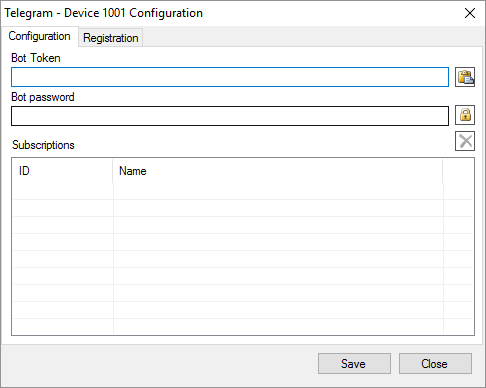
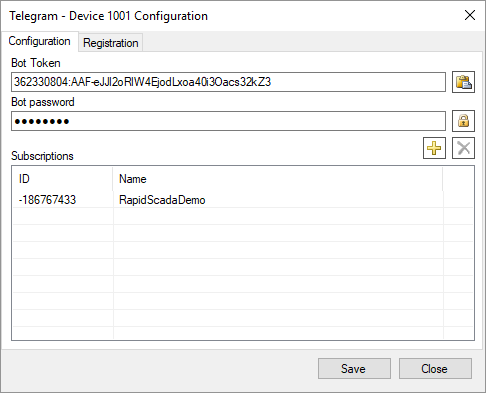
ScadaDoc: update telegram article

diff --git a/ScadaDoc/ScadaDoc/content/latest/ru/modules/kp-telegram.html b/ScadaDoc/ScadaDoc/content/latest/ru/modules/kp-telegram.html
@@ -23,7 +23,7 @@
         <li>Установите приложение и зарегистрируйтесь в <a href="https://telegram.org/" target="_blank">Telegram</a>.</li>
         <li>Добавьте в список контактов бота <a href="https://telegram.me/botfather" target="_blank">BotFather</a>.<br />
             <img src="kp-telegram-files/bot_father.png" alt="Telegram BotFather" class="sd-article-image border" /></li>
-        <li>В режиме диалога с BotFather выполните команду /newbot и следуйте инструкциям от BotFather.</li>
+        <li>В режиме диалога с BotFather выполните команду <em>/newbot</em> и следуйте инструкциям от BotFather.</li>
         <li>Щёлкните по значку меню и создайте новую группу для получения рассылки.<br />
             <img src="kp-telegram-files/new_group.png" alt="Новая группа Telegram" class="sd-article-image border" /></li>
         <li>Добавьте созданного Вами бота в новую группу.</li>
@@ -45,14 +45,15 @@
     </ol>
 
     <h3>Управление подписками</h3>
-    <p>Если настройка выполнена правильно, то Ваш бот будет отвечать на команды, отправленные из мессенджера, например, команду /help</p>
+    <p>Если настройка выполнена правильно, то Ваш бот будет отвечать на команды, отправленные из мессенджера, например, команду <em>/help</em>. Необходимо в настройках драйвера указать подписки (чаты), с которыми взаимодействует Коммуникатор.</p>
     <p class="sd-article-image border">
-        <img src="kp-telegram-files/test_group_ru.png" alt="Группа уведомлений Telegram" /><br />
+        <img src="kp-telegram-files/group_chat_ru.png" alt="Группа уведомлений Telegram" /><br />
     </p>
-    <p>Чтобы добавить или удалить подписку данной группы, используйте команды /start и /stop с указанием ранее сгенерированного пароля. Однако, по умолчанию изменение подписки заблокировано. Чтобы его разблокировать, в Коммуникаторе отправьте для КП стандартную команду номер 2 со значением 1. Теперь можно добавлять или удалять подписки.</p>
+    <p>Чтобы получить идентификатор и наименование подписки, следует отправить команду <em>/info</em> с помощью мессенджера. Затем добавить полученные данные на форме конфигурации КП.</p>
+    <p>Устаревший способ: добавление или удаление подписки выполняется с помощью команд <em>/start</em> и <em>/stop</em> с указанием ранее сгенерированного пароля. Однако, по умолчанию изменение подписки заблокировано. Чтобы его разблокировать, в Коммуникаторе нужно отправить для КП стандартную команду номер 2 со значением 1. После этого можно добавлять или удалять подписки.</p>
 
     <h2>Отправка сообщений</h2>
-    <p>Чтобы из Rapid SCADA отправить сообщение в группу Telegram, необходимо отправить бинарную команду номер 1, содержащую имя (или идентификатор) группы и текст сообщения. Например: RapidScadaBotTestGroup; Тестовое сообщение.</p>
+    <p>Чтобы из Rapid SCADA отправить сообщение в группу Telegram, необходимо отправить бинарную команду номер 1, содержащую имя (или идентификатор) группы и текст сообщения. Например:<br />RapidScadaDemo; Тестовое сообщение.</p>
     <p class="sd-article-image">
         <img src="kp-telegram-files/send_cmd_ru.png" alt="Отправка сообщения Telegram" /><br />
     </p>

diff --git a/ScadaDoc/ScadaDoc/content/latest/en/modules/kp-telegram.html b/ScadaDoc/ScadaDoc/content/latest/en/modules/kp-telegram.html
@@ -23,7 +23,7 @@
         <li>Install the application and register <a href="https://telegram.org/" target="_blank">Telegram</a>.</li>
         <li>Add the bot named <a href="https://telegram.me/botfather" target="_blank">BotFather</a> to the contact list.<br />
             <img src="kp-telegram-files/bot_father.png" alt="Telegram BotFather" class="sd-article-image border" /></li>
-        <li>In the dialog with BotFather, run the command /newbot and follow the instructions from BotFather.</li>
+        <li>In the dialog with BotFather, run the command <em>/newbot</em> and follow the instructions from BotFather.</li>
         <li>Click the menu icon and create a new group to receive notifications.<br />
             <img src="kp-telegram-files/new_group.png" alt="Новая группа Telegram" class="sd-article-image border" /></li>
         <li>Add the bot you created to the new group.</li>
@@ -45,14 +45,15 @@
     </ol>
 
     <h3>Manage Subscriptions</h3>
-    <p>If the settings are correct, your bot will respond to messenger commands, for example, the /help command.</p>
+    <p>If the settings are correct, your bot will respond to messenger commands, for example, the <em>/help</em> command. It is necessary to specify the subscriptions (chats) in the driver settings.</p>
     <p class="sd-article-image.border">
-        <img src="kp-telegram-files/test_group_en.png" alt="Telegram notification group" /><br />
+        <img src="kp-telegram-files/group_chat_en.png" alt="Telegram notification group" /><br />
     </p>
-    <p>To add or remove subscriptions to the group, use the /start and /stop commands with the previously generated password. However, by default, subscription changes are blocked. To unlock it, send a standard command number 2 with a value of 1 by Communicator. Then you can add or remove subscriptions.</p>
+    <p>To get the ID and the name of the subscription, send the <em>/info</em> command using the messenger. Then add the received values using the device configuration form.</p>
+    <p>Obsolete method: to add or remove subscriptions, use the <em>/start</em> and <em>/stop</em> commands with the previously generated password. However, by default, subscription changes are blocked. To unlock it, send a standard command number 2 with a value of 1 by Communicator. Then you can add or remove subscriptions.</p>
 
     <h2>Sending Messages</h2>
-    <p>To send a message from Rapid SCADA to a Telegram group, you need send a binary command number 1 containing the group name (or identifier) and the message text. For example: RapidScadaBotTestGroup; Test message.</p>
+    <p>To send a message from Rapid SCADA to a Telegram group, you need send a binary command number 1 containing the group name (or identifier) and the message text. For example:<br />RapidScadaDemo; Test message.</p>
     <p class="sd-article-image">
         <img src="kp-telegram-files/send_cmd_en.png" alt="Sending Telegram message" /><br />
     </p>
